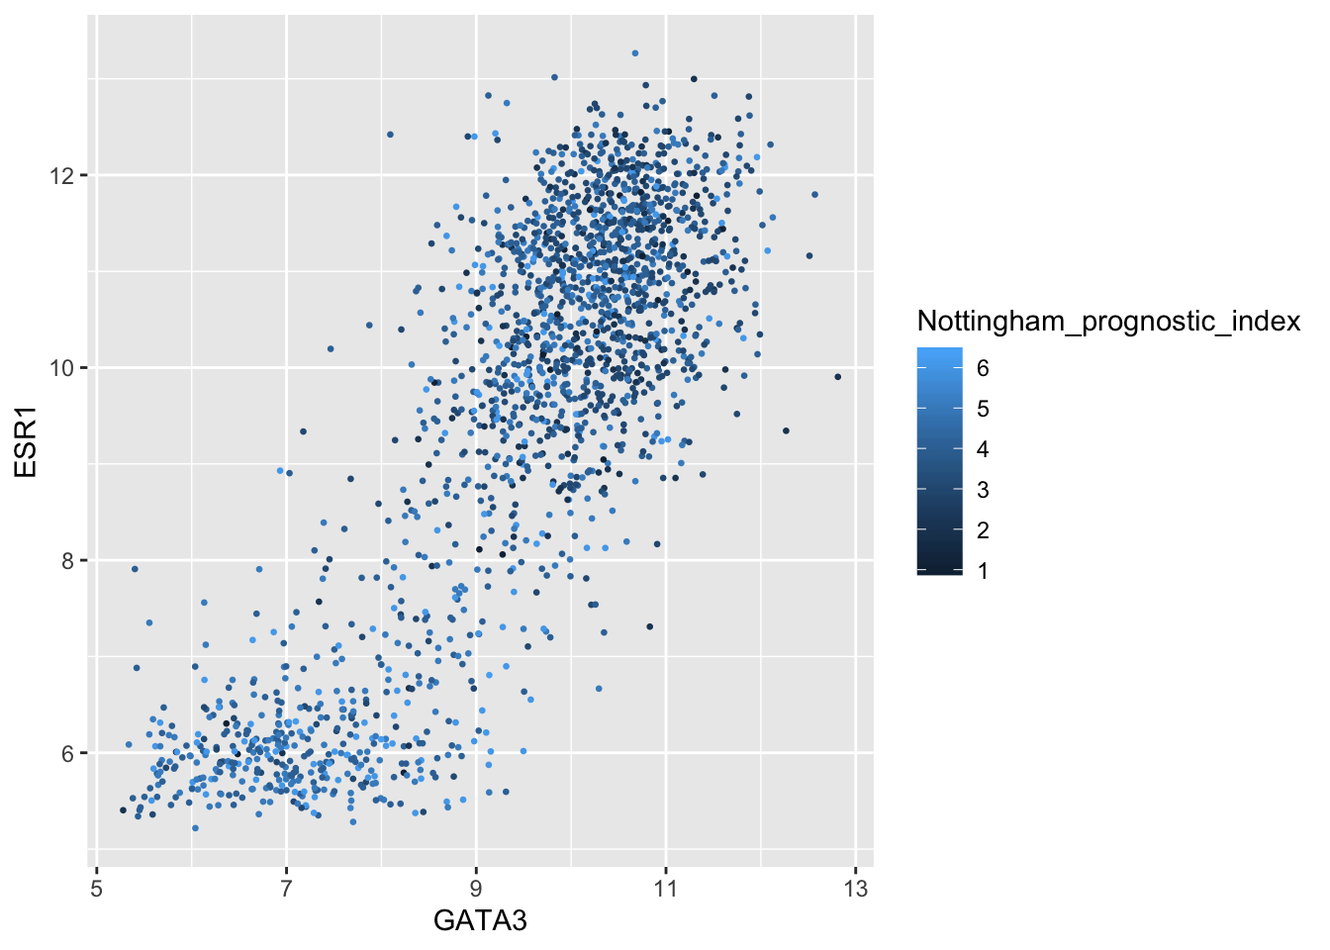
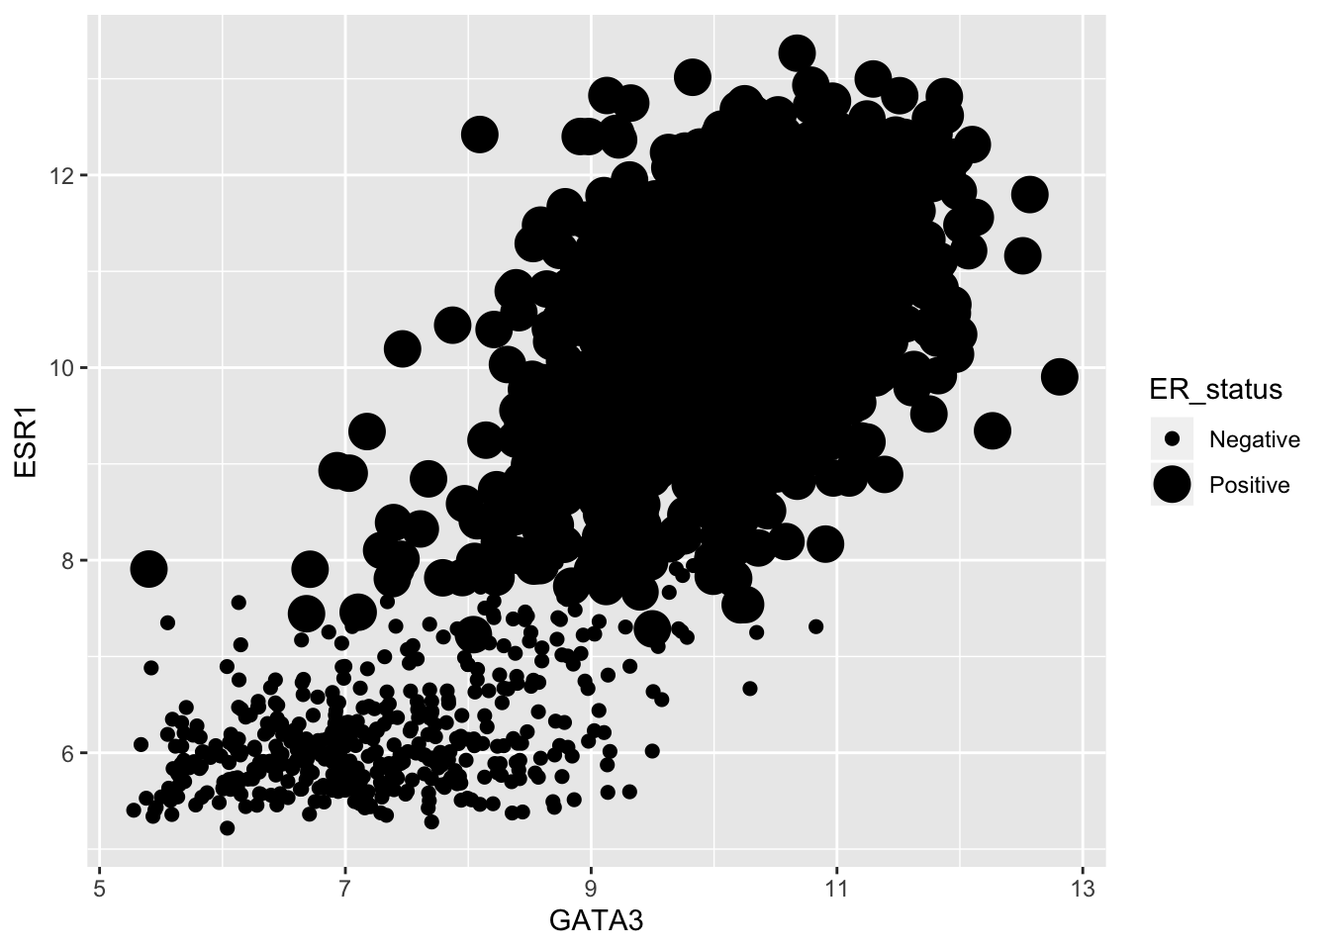
Some rewording and reordering

diff --git a/docs/week2.html b/docs/week2.html
@@ -758,8 +758,8 @@ heights_in_centimetres</code></pre>
 <div id="combining-data-of-different-types" class="section level1">
 <h1>Combining data of different types</h1>
 <p>Vectors are all very well and good but your data are almost certainly more complicated than an ordered set of values all of the same type. You’ve probably been working with Excel spreadsheets that contain some columns that are numerical while others contain names or character strings, e.g. the following table of Star Wars characters.</p>
-<div id="htmlwidget-e38ebdcb1373d8ffafb9" style="width:100%;height:auto;" class="datatables html-widget"></div>
-<script type="application/json" data-for="htmlwidget-e38ebdcb1373d8ffafb9">{"x":{"filter":"none","data":[["Luke Skywalker","C-3PO","R2-D2","Darth Vader","Leia Organa","Owen Lars","Beru Whitesun lars","R5-D4","Biggs Darklighter","Obi-Wan Kenobi","Anakin Skywalker","Wilhuff Tarkin","Chewbacca","Han Solo","Greedo","Jabba Desilijic Tiure","Wedge Antilles","Jek Tono Porkins","Yoda","Palpatine","Boba Fett","IG-88","Bossk","Lando Calrissian","Lobot","Ackbar","Mon Mothma","Arvel Crynyd","Wicket Systri Warrick","Nien Nunb","Qui-Gon Jinn","Nute Gunray","Finis Valorum","Jar Jar Binks","Roos Tarpals","Rugor Nass","Ric Olié","Watto","Sebulba","Quarsh Panaka","Shmi Skywalker","Darth Maul","Bib Fortuna","Ayla Secura","Dud Bolt","Gasgano","Ben Quadinaros","Mace Windu","Ki-Adi-Mundi","Kit Fisto","Eeth Koth","Adi Gallia","Saesee Tiin","Yarael Poof","Plo Koon","Mas Amedda","Gregar Typho","Cordé","Cliegg Lars","Poggle the Lesser","Luminara Unduli","Barriss Offee","Dormé","Dooku","Bail Prestor Organa","Jango Fett","Zam Wesell","Dexter Jettster","Lama Su","Taun We","Jocasta Nu","Ratts Tyerell","R4-P17","Wat Tambor","San Hill","Shaak Ti","Grievous","Tarfful","Raymus Antilles","Sly Moore","Tion Medon","Finn","Rey","Poe Dameron","BB8","Captain Phasma","Padmé Amidala"],[172,167,96,202,150,178,165,97,183,182,188,180,228,180,173,175,170,180,66,170,183,200,190,177,175,180,150,null,88,160,193,191,170,196,224,206,183,137,112,183,163,175,180,178,94,122,163,188,198,196,171,184,188,264,188,196,185,157,183,183,170,166,165,193,191,183,168,198,229,213,167,79,96,193,191,178,216,234,188,178,206,null,null,null,null,null,165],[77,75,32,136,49,120,75,32,84,77,84,null,112,80,74,1358,77,110,17,75,78.2,140,113,79,79,83,null,null,20,68,89,90,null,66,82,null,null,null,40,null,null,80,null,55,45,null,65,84,82,87,null,50,null,null,80,null,85,null,null,80,56.2,50,null,80,null,79,55,102,88,null,null,15,null,48,null,57,159,136,79,48,80,null,null,null,null,null,45],["male",null,null,"male","female","male","female",null,"male","male","male","male","male","male","male","hermaphrodite","male","male","male","male","male","none","male","male","male","male","female","male","male","male","male","male","male","male","male","male","male","male","male","male","female","male","male","female","male","male","male","male","male","male","male","female","male","male","male","male","male","female","male","male","female","female","female","male","male","male","female","male","male","female","female","male","female","male","male","female","male","male","male","female","male","male","female","male","none","female","female"],["Human","Droid","Droid","Human","Human","Human","Human","Droid","Human","Human","Human","Human","Wookiee","Human","Rodian","Hutt","Human","Human","Yoda's species","Human","Human","Droid","Trandoshan","Human","Human","Mon Calamari","Human","Human","Ewok","Sullustan","Human","Neimodian","Human","Gungan","Gungan","Gungan",null,"Toydarian","Dug",null,"Human","Zabrak","Twi'lek","Twi'lek","Vulptereen","Xexto","Toong","Human","Cerean","Nautolan","Zabrak","Tholothian","Iktotchi","Quermian","Kel Dor","Chagrian","Human","Human","Human","Geonosian","Mirialan","Mirialan","Human","Human","Human","Human","Clawdite","Besalisk","Kaminoan","Kaminoan","Human","Aleena",null,"Skakoan","Muun","Togruta","Kaleesh","Wookiee","Human",null,"Pau'an","Human","Human","Human","Droid",null,"Human"],["Tatooine","Tatooine","Naboo","Tatooine","Alderaan","Tatooine","Tatooine","Tatooine","Tatooine","Stewjon","Tatooine","Eriadu","Kashyyyk","Corellia","Rodia","Nal Hutta","Corellia","Bestine IV",null,"Naboo","Kamino",null,"Trandosha","Socorro","Bespin","Mon Cala","Chandrila",null,"Endor","Sullust",null,"Cato Neimoidia","Coruscant","Naboo","Naboo","Naboo","Naboo","Toydaria","Malastare","Naboo","Tatooine","Dathomir","Ryloth","Ryloth","Vulpter","Troiken","Tund","Haruun Kal","Cerea","Glee Anselm","Iridonia","Coruscant","Iktotch","Quermia","Dorin","Champala","Naboo","Naboo","Tatooine","Geonosis","Mirial","Mirial","Naboo","Serenno","Alderaan","Concord Dawn","Zolan","Ojom","Kamino","Kamino","Coruscant","Aleen Minor",null,"Skako","Muunilinst","Shili","Kalee","Kashyyyk","Alderaan","Umbara","Utapau",null,null,null,null,null,"Naboo"]],"container":"<table class=\"display\">\n  <thead>\n    <tr>\n      <th>name<\/th>\n      <th>height<\/th>\n      <th>mass<\/th>\n      <th>gender<\/th>\n      <th>species<\/th>\n      <th>homeworld<\/th>\n    <\/tr>\n  <\/thead>\n<\/table>","options":{"columnDefs":[{"className":"dt-right","targets":[1,2]}],"order":[],"autoWidth":false,"orderClasses":false}},"evals":[],"jsHooks":[]}</script>
+<div id="htmlwidget-1866f5f4646dd351aac1" style="width:100%;height:auto;" class="datatables html-widget"></div>
+<script type="application/json" data-for="htmlwidget-1866f5f4646dd351aac1">{"x":{"filter":"none","data":[["Luke Skywalker","C-3PO","R2-D2","Darth Vader","Leia Organa","Owen Lars","Beru Whitesun lars","R5-D4","Biggs Darklighter","Obi-Wan Kenobi","Anakin Skywalker","Wilhuff Tarkin","Chewbacca","Han Solo","Greedo","Jabba Desilijic Tiure","Wedge Antilles","Jek Tono Porkins","Yoda","Palpatine","Boba Fett","IG-88","Bossk","Lando Calrissian","Lobot","Ackbar","Mon Mothma","Arvel Crynyd","Wicket Systri Warrick","Nien Nunb","Qui-Gon Jinn","Nute Gunray","Finis Valorum","Jar Jar Binks","Roos Tarpals","Rugor Nass","Ric Olié","Watto","Sebulba","Quarsh Panaka","Shmi Skywalker","Darth Maul","Bib Fortuna","Ayla Secura","Dud Bolt","Gasgano","Ben Quadinaros","Mace Windu","Ki-Adi-Mundi","Kit Fisto","Eeth Koth","Adi Gallia","Saesee Tiin","Yarael Poof","Plo Koon","Mas Amedda","Gregar Typho","Cordé","Cliegg Lars","Poggle the Lesser","Luminara Unduli","Barriss Offee","Dormé","Dooku","Bail Prestor Organa","Jango Fett","Zam Wesell","Dexter Jettster","Lama Su","Taun We","Jocasta Nu","Ratts Tyerell","R4-P17","Wat Tambor","San Hill","Shaak Ti","Grievous","Tarfful","Raymus Antilles","Sly Moore","Tion Medon","Finn","Rey","Poe Dameron","BB8","Captain Phasma","Padmé Amidala"],[172,167,96,202,150,178,165,97,183,182,188,180,228,180,173,175,170,180,66,170,183,200,190,177,175,180,150,null,88,160,193,191,170,196,224,206,183,137,112,183,163,175,180,178,94,122,163,188,198,196,171,184,188,264,188,196,185,157,183,183,170,166,165,193,191,183,168,198,229,213,167,79,96,193,191,178,216,234,188,178,206,null,null,null,null,null,165],[77,75,32,136,49,120,75,32,84,77,84,null,112,80,74,1358,77,110,17,75,78.2,140,113,79,79,83,null,null,20,68,89,90,null,66,82,null,null,null,40,null,null,80,null,55,45,null,65,84,82,87,null,50,null,null,80,null,85,null,null,80,56.2,50,null,80,null,79,55,102,88,null,null,15,null,48,null,57,159,136,79,48,80,null,null,null,null,null,45],["male",null,null,"male","female","male","female",null,"male","male","male","male","male","male","male","hermaphrodite","male","male","male","male","male","none","male","male","male","male","female","male","male","male","male","male","male","male","male","male","male","male","male","male","female","male","male","female","male","male","male","male","male","male","male","female","male","male","male","male","male","female","male","male","female","female","female","male","male","male","female","male","male","female","female","male","female","male","male","female","male","male","male","female","male","male","female","male","none","female","female"],["Human","Droid","Droid","Human","Human","Human","Human","Droid","Human","Human","Human","Human","Wookiee","Human","Rodian","Hutt","Human","Human","Yoda's species","Human","Human","Droid","Trandoshan","Human","Human","Mon Calamari","Human","Human","Ewok","Sullustan","Human","Neimodian","Human","Gungan","Gungan","Gungan",null,"Toydarian","Dug",null,"Human","Zabrak","Twi'lek","Twi'lek","Vulptereen","Xexto","Toong","Human","Cerean","Nautolan","Zabrak","Tholothian","Iktotchi","Quermian","Kel Dor","Chagrian","Human","Human","Human","Geonosian","Mirialan","Mirialan","Human","Human","Human","Human","Clawdite","Besalisk","Kaminoan","Kaminoan","Human","Aleena",null,"Skakoan","Muun","Togruta","Kaleesh","Wookiee","Human",null,"Pau'an","Human","Human","Human","Droid",null,"Human"],["Tatooine","Tatooine","Naboo","Tatooine","Alderaan","Tatooine","Tatooine","Tatooine","Tatooine","Stewjon","Tatooine","Eriadu","Kashyyyk","Corellia","Rodia","Nal Hutta","Corellia","Bestine IV",null,"Naboo","Kamino",null,"Trandosha","Socorro","Bespin","Mon Cala","Chandrila",null,"Endor","Sullust",null,"Cato Neimoidia","Coruscant","Naboo","Naboo","Naboo","Naboo","Toydaria","Malastare","Naboo","Tatooine","Dathomir","Ryloth","Ryloth","Vulpter","Troiken","Tund","Haruun Kal","Cerea","Glee Anselm","Iridonia","Coruscant","Iktotch","Quermia","Dorin","Champala","Naboo","Naboo","Tatooine","Geonosis","Mirial","Mirial","Naboo","Serenno","Alderaan","Concord Dawn","Zolan","Ojom","Kamino","Kamino","Coruscant","Aleen Minor",null,"Skako","Muunilinst","Shili","Kalee","Kashyyyk","Alderaan","Umbara","Utapau",null,null,null,null,null,"Naboo"]],"container":"<table class=\"display\">\n  <thead>\n    <tr>\n      <th>name<\/th>\n      <th>height<\/th>\n      <th>mass<\/th>\n      <th>gender<\/th>\n      <th>species<\/th>\n      <th>homeworld<\/th>\n    <\/tr>\n  <\/thead>\n<\/table>","options":{"columnDefs":[{"className":"dt-right","targets":[1,2]}],"order":[],"autoWidth":false,"orderClasses":false}},"evals":[],"jsHooks":[]}</script>
 <p>Note that the first column contains character type data, the second and third columns contain numerical data (of type double) and the remaining columns contain the special type we briefly touched on last week, factors, that look like character types but have a limited set of values or categories.</p>
 <div id="lists" class="section level2">
 <h2>Lists</h2>
@@ -851,13 +851,13 @@ t.test(sample1, sample2)</code></pre>
 ##  Welch Two Sample t-test
 ## 
 ## data:  sample1 and sample2
-## t = -4.5807, df = 97.937, p-value = 1.366e-05
+## t = -5.154, df = 88.604, p-value = 1.534e-06
 ## alternative hypothesis: true difference in means is not equal to 0
 ## 95 percent confidence interval:
-##  -0.12902609 -0.05102308
+##  -0.14909848 -0.06612086
 ## sample estimates:
 ## mean of x mean of y 
-##  1.004851  1.094875</code></pre>
+##  1.016144  1.123754</code></pre>
 <p>The output from running the <code>t.test()</code> function doesn’t much look like a list. That’s because it is a special type of list with some additional behaviours including knowing how to print itself in a human-friendly way. But we can check it is a list and use some of the list operations we’ve just looked at.</p>
 <pre class="r"><code>result &lt;- t.test(sample1, sample2)
 is.list(result)</code></pre>
@@ -866,7 +866,7 @@ is.list(result)</code></pre>
 <pre><code>##  [1] &quot;statistic&quot;   &quot;parameter&quot;   &quot;p.value&quot;     &quot;conf.int&quot;    &quot;estimate&quot;   
 ##  [6] &quot;null.value&quot;  &quot;stderr&quot;      &quot;alternative&quot; &quot;method&quot;      &quot;data.name&quot;</code></pre>
 <pre class="r"><code>result$p.value</code></pre>
-<pre><code>## [1] 1.365726e-05</code></pre>
+<pre><code>## [1] 1.534053e-06</code></pre>
 </div>
 <div id="data-frames" class="section level2">
 <h2>Data frames</h2>
@@ -1193,12 +1193,12 @@ mtcars[1:6, c(&quot;cyl&quot;, &quot;mpg&quot;, &quot;kpl&quot;)]</code></pre>
 <p>The <code>tibble</code> package also contains various useful functions for converting other data structures, e.g. data frames, to tibbles and for working with tibble objects.</p>
 <p>The <code>tibble</code> package is one of a collection of packages that make up the tidyverse. It is usually more convenient to load the core tidyverse packages in one go as follows.</p>
 <pre class="r"><code>library(tidyverse)</code></pre>
-<pre><code>## ── Attaching packages ────────────────────────────── tidyverse 1.3.0 ──</code></pre>
+<pre><code>## ── Attaching packages ──────────────────────── tidyverse 1.3.0 ──</code></pre>
 <pre><code>## ✔ ggplot2 3.2.1     ✔ purrr   0.3.3
 ## ✔ tibble  2.1.3     ✔ dplyr   0.8.3
 ## ✔ tidyr   1.0.0     ✔ stringr 1.4.0
 ## ✔ readr   1.3.1     ✔ forcats 0.4.0</code></pre>
-<pre><code>## ── Conflicts ───────────────────────────────── tidyverse_conflicts() ──
+<pre><code>## ── Conflicts ─────────────────────────── tidyverse_conflicts() ──
 ## ✖ dplyr::filter() masks stats::filter()
 ## ✖ dplyr::lag()    masks stats::lag()</code></pre>
 <p>The output from this command tells us which packages were loaded, one of which is the <code>tibble</code> package. Another of these is <code>ggplot2</code> that provides excellent plotting functions for visualizing our data and will be the main focus next week.</p>

diff --git a/docs/week3.html b/docs/week3.html
@@ -396,16 +396,22 @@ div.tocify {
 <blockquote>
 <h4 id="learning-objectives">Learning objectives</h4>
 <ul>
-<li>Introduce ggplot2 for visualizing your data</li>
-<li>Learn ggplot2’s grammar of graphics, a coherent system for describing and creating plots</li>
-<li>Learn just one system and use this to create many different types of plot</li>
+<li>Understand ggplot2’s grammar of graphics</li>
+<li>Apply the grammar to create a variety of plots including scatter plots, box plots and histograms</li>
 <li>Learn about how R handles categorical data</li>
 </ul>
 </blockquote>
 <div id="visualizing-data-with-ggplot2" class="section level1">
 <h1>Visualizing data with ggplot2</h1>
-<p>In this session we will mostly focus our attention on the popular <strong>ggplot2</strong> package for visualizing tabular data by creating various kinds of plot.</p>
-<p>We’ll be using an expanded version of the METABRIC data set in which columns have been added for the mRNA expression values for some selected genes but which contains observations only for those patient samples for which we have expression data. We’ve also replaced spaces in column names with underscores so we don’t have to use backticks.</p>
+<p>In this session we will focus our attention on the popular <strong>ggplot2</strong> package for visualizing tabular data by creating various kinds of plot.</p>
+<div id="metabric-data-set" class="section level2">
+<h2>METABRIC data set</h2>
+<p>We’ll be using an extended version of the METABRIC data set in which columns have been added for the mRNA expression values for selected genes, including estrogen receptor alpha (ESR1), progesterone receptor (PGR), GATA3 and FOXA1.</p>
+<p>The METABRIC study characterized the genomic mutations and gene expression profiles for over 2000 primary breast tumours. In addition to the gene expression obtained using microarrays, genome-wide copy number profiles were obtained using SNP microarrays and targeted sequencing was performed using a panel of 40 driver-mutation genes.</p>
+<p><a href="https://pubmed.ncbi.nlm.nih.gov/22522925">Curtis <em>et al.</em>, Nature 486:346-52, 2012</a></p>
+<p><a href="https://www.ncbi.nlm.nih.gov/pubmed/27161491">Pereira <em>et al.</em>, Nature Communications 7:11479, 2016</a></p>
+<p>Both the clinical data and the gene expression values were downloaded from <a href="https://www.cbioportal.org/study/summary?id=brca_metabric">cBioPortal</a>.</p>
+<p>These have been combined into a single table using techniques we will cover later in the course. We’ve removed observations for patient tumour samples for which expression data are not available and have replaced spaces in column names so we don’t have to refer to these using backticks ( <strong>`</strong> ).</p>
 <pre class="r"><code>library(tidyverse)
 metabric &lt;- read_csv(&quot;data/metabric_clinical_and_expression_data.csv&quot;)
 metabric</code></pre>
@@ -432,9 +438,10 @@ metabric</code></pre>
 ## #   ESR1 &lt;dbl&gt;, ERBB2 &lt;dbl&gt;, PGR &lt;dbl&gt;, TP53 &lt;dbl&gt;, PIK3CA &lt;dbl&gt;,
 ## #   GATA3 &lt;dbl&gt;, FOXA1 &lt;dbl&gt;, MLPH &lt;dbl&gt;</code></pre>
 </div>
+</div>
 <div id="our-first-ggplot---a-scatter-plot" class="section level1">
 <h1>Our first ggplot - a scatter plot</h1>
-<p>First we’ll create a simple scatter plot much like the ones we’ve created in previous sessions using R’s <code>plot()</code> function.</p>
+<p>First we’ll create a simple scatter plot much like the ones we’ve created in previous sessions using R’s <code>plot()</code> function. We’ll plot the expression of estrogen receptor alpha (ESR1) against that of the transcription factor, GATA3.</p>
 <pre class="r"><code>ggplot(data = metabric) +
   geom_point(mapping = aes(x = GATA3, y = ESR1))</code></pre>
 <p><img src="week3_files/figure-html/scatter_plot_1-1.png" width="672" /></p>
@@ -445,13 +452,13 @@ metabric</code></pre>
 <li>The mapping of variables in the data to visual properties (called <strong>aesthetics</strong> in ggplot2) of objects in the plot</li>
 </ol>
 <p>In this case the type of plot is a <strong><code>geom_point</code></strong>, ggplot2’s function for a scatter plot, and the expression of the genes GATA3 and ESR1 (estrogen receptor alpha) are mapped to the x and y coordinates, i.e. the positions of points on the scatter plot.</p>
-<p>Other aesthetics could include the size, shape and colour of those points.</p>
+<p>Perhaps the x and y coordinates of the points plotted aren’t quite what we imagine as having aesthetic qualities. Other aesthetics that you might expect to be referred to in this way include the size, shape and colour of the points.</p>
 </div>
 <div id="aesthetic-mappings" class="section level1">
 <h1>Aesthetic mappings</h1>
 <p>Look up the <code>geom_point</code> help page to see the list of aesthetics that are available for this geom.</p>
 <pre class="r"><code>?geom_point</code></pre>
-<p>The help page lists all the aesthetics you can set for this particular type of scatter plot. If you scroll down to the aesthetics section you’ll see that the <strong><code>x</code></strong> and <strong><code>y</code></strong> aesthetics are in bold face which tells us that these are required.</p>
+<p>The help page lists all the aesthetics you can set for this particular type of scatter plot. If you scroll down to the aesthetics section you’ll see that the <strong><code>x</code></strong> and <strong><code>y</code></strong> aesthetics are in bold face which tells us that these are required, i.e. you have to supply them, otherwise you’ll get an error message from ggplot.</p>
 <p>Other aesthetics such as size, shape, colour and transparency (alpha) are optional.</p>
 <p>So what about those other aesthetics? Colours are usually fun – let’s try to use a colour aesthetic. We need to set a mapping of a variable to colour just like we did for x and y.</p>
 <pre class="r"><code>ggplot(data = metabric) +
@@ -461,19 +468,22 @@ metabric</code></pre>
 <pre class="r"><code>ggplot(data = metabric) +
   geom_point(mapping = aes(x = GATA3, y = ESR1, colour = Nottingham_prognostic_index))</code></pre>
 <p><img src="week3_files/figure-html/scatter_plot_3-1.png" width="672" /></p>
-<p>Size is not usually a good aesthetic to map to a variable. However it would be useful to be able to decrease the size of the points for this dataset as it contains 2509 observations. We can do this by setting size to a single value but we must now do so outside of the aesthetic mappings.</p>
-<pre class="r"><code>ggplot(data = metabric) +
-  geom_point(mapping = aes(x = GATA3, y = ESR1, colour = Nottingham_prognostic_index), size = 0.5)</code></pre>
-<p><img src="week3_files/figure-html/scatter_plot_4-1.png" width="672" /></p>
-<p>If you use an aesthetic designed for a continuous variable with a discrete variable, ggplot2 will warn you about this not being a good idea.</p>
+<p>Do you see the difference between using a colour aesthetic for a discrete variable compared with a continuous variable?</p>
+<p>Size is not usually a good aesthetic to map to a variable. This is particularly the case where we have such a large number of observations.</p>
 <pre class="r"><code>ggplot(data = metabric) +
   geom_point(mapping = aes(x = GATA3, y = ESR1, size = ER_status))</code></pre>
 <pre><code>## Warning: Using size for a discrete variable is not advised.</code></pre>
+<p><img src="week3_files/figure-html/scatter_plot_4-1.png" width="672" /></p>
+<p>Some aesthetics, such as size, are designed to be used with continuous variables. If you map these to a discrete variable as we have done here, then ggplot warns you that this isn’t such a good idea.</p>
+<p>It would however by useful to be able to decrease the size of the points given that there are around 2000 in this data set. We can do so by setting the size to a single value rather than mapping it to one of the variables in the data set - we can do so by setting it outside the aesthetic mappings, i.e. outside the <code>aes()</code> bit.</p>
+<pre class="r"><code>ggplot(data = metabric) +
+  geom_point(mapping = aes(x = GATA3, y = ESR1, colour = Nottingham_prognostic_index), size = 0.5)</code></pre>
 <p><img src="week3_files/figure-html/scatter_plot_5-1.png" width="672" /></p>
 <p>Some aesthetics can only be used with categorical variables, e.g. shape.</p>
 <pre class="r"><code>ggplot(data = metabric) +
   geom_point(mapping = aes(x = GATA3, y = ESR1, shape = Survival_time))</code></pre>
 <pre><code>Error: A continuous variable can not be mapped to shape</code></pre>
+<p>Here we set the shape based on the 3-gene classifier.</p>
 <pre class="r"><code>ggplot(data = metabric) +
   geom_point(mapping = aes(x = GATA3, y = ESR1, shape = `3_gene_classifier`), size = 0.9)</code></pre>
 <pre><code>## Warning: Removed 204 rows containing missing values (geom_point).</code></pre>
@@ -484,7 +494,7 @@ metabric</code></pre>
   geom_point(mapping = aes(x = GATA3, y = ESR1, colour = PAM50, shape = `3_gene_classifier`), size = 0.9)</code></pre>
 <pre><code>## Warning: Removed 204 rows containing missing values (geom_point).</code></pre>
 <p><img src="week3_files/figure-html/scatter_plot_7-1.png" width="672" /></p>
-<p>Transparency can be useful when we have a large number of points but is not usually mapped to a variable so sits outside the <code>aes()</code>.</p>
+<p>Transparency can be useful when we have a large number of points as we can more easily tell when points are overlaid, but like size, it is not usually mapped to a variable and sits outside the <code>aes()</code>.</p>
 <pre class="r"><code>ggplot(data = metabric) +
   geom_point(mapping = aes(x = GATA3, y = ESR1, colour = `3_gene_classifier`), size = 0.75, alpha = 0.5)</code></pre>
 <p><img src="week3_files/figure-html/scatter_plot_8-1.png" width="672" /></p>
@@ -494,10 +504,21 @@ metabric</code></pre>
 <div id="ggplot2-grammar" class="section level1">
 <h1>ggplot2 grammar</h1>
 <p>The “gg” in ggplot2 stands for “grammar of graphics”. This grammar is a coherent system for describing and building graphs.</p>
-<p>The basic template is:</p>
-<pre><code>ggplot(data = &lt;DATA&gt;) +
-  &lt;GEOM_FUNCTION&gt;(mapping = aes(&lt;MAPPINGS&gt;))</code></pre>
-<p>This template can be used to create any of the different types of graph possible with ggplot2.</p>
+<p>The basic template is given in the summary box below. This template can be used to create any of the different types of graph possible with ggplot2.</p>
+<div class="rmdblock">
+<p>
+<strong>ggplot2 grammar</strong>
+</p>
+<p>
+<strong><code>ggplot(data = &lt;DATA&gt;) + &lt;GEOM_FUNCTION&gt;(mapping = aes(&lt;MAPPINGS&gt;))</code></strong>
+</p>
+<p>
+<code>ggplot()</code> creates the plot object.
+</p>
+<p>
+Layers can be added by adding geoms such as <code>geom_point()</code> using the <code>+</code> operator that ggplot2 has overridden for this purpose.
+</p>
+</div>
 </div>
 <div id="another-plot-type---bar-chart" class="section level1">
 <h1>Another plot type - bar chart</h1>
@@ -538,7 +559,7 @@ metabric</code></pre>
 <pre><code>ggplot(data = &lt;DATA&gt;) +
   &lt;GEOM_FUNCTION&gt;(mapping = aes(&lt;MAPPINGS&gt;))</code></pre>
 <p>Why do we have the ggplot part and geom part joined by a “+” symbol?</p>
-<p>The ‘+’ operator has been overridden by ggplot2 to add layers and other components (scales, themes, etc.) to the plot.</p>
+<p>The <strong>‘+’</strong> operator has been overridden by ggplot2 to add layers and other components (scales, themes, etc.) to the plot.</p>
 <p>We can have multiple geoms in the same plot. Each is a different layer.</p>
 <p>Let’s create a plot with two geoms.</p>
 <pre class="r"><code>ggplot(data = metabric) +
@@ -546,9 +567,10 @@ metabric</code></pre>
   geom_smooth(mapping = aes(x = GATA3, y = ESR1))</code></pre>
 <pre><code>## `geom_smooth()` using method = &#39;gam&#39; and formula &#39;y ~ s(x, bs = &quot;cs&quot;)&#39;</code></pre>
 <p><img src="week3_files/figure-html/scatter_line_plot_1-1.png" width="672" /></p>
-<p>What is geom_smooth doing? Look up the help page.</p>
+<p>What is <strong><code>geom_smooth()</code></strong> doing? Look up the help page.</p>
 <p>Note that the shaded area represents the standard error bounds on the fitted model.</p>
-<p>There is some annoying duplication of code here. We can avoid this by putting the mappings in the <code>ggplot</code> function instead.</p>
+<p>It is important when breaking these ggplot statments across multiple lines to ensure that the <code>+</code> is at the end of lines so that R knows you haven’t finished constructing your plot.</p>
+<p>There is some annoying duplication of code in the code above. We’ve repeated the exact same aesthetic mapping for both geoms. We can avoid this by putting the mappings in the <code>ggplot()</code> function instead.</p>
 <pre class="r"><code>ggplot(data = metabric, mapping = aes(x = GATA3, y = ESR1)) +
   geom_point() +
   geom_smooth()</code></pre>
